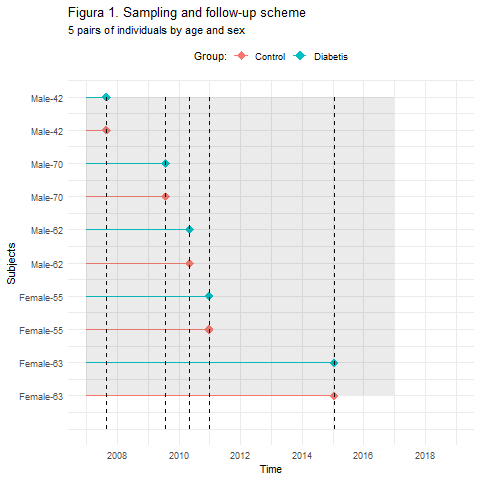
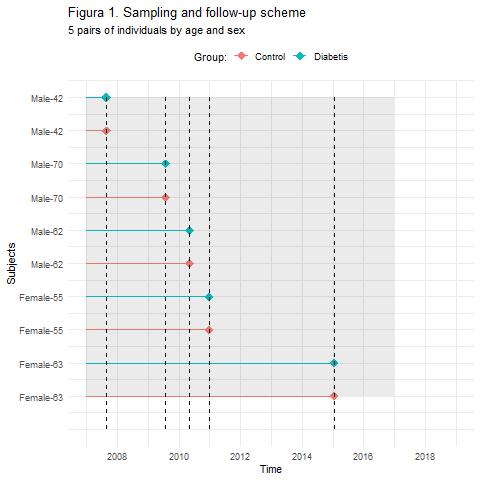
Actualització

diff --git a/diapos/presentacio_xaring.html b/diapos/presentacio_xaring.html
@@ -16,15 +16,15 @@ class: center, middle, inverse, title-slide
 ## Estudio poblacional en un área de elevada prevalencia de tuberculosis: Metodologia
 ### Violeta Antonio; Jordi Real; Josep Franch-Nadal; Antonio Moreno ; Àngels Orcau Palau; Joan A Caylà
 ### IDIAP Jordi Gol
-### 11 marzo, 2021
+### 12 marzo, 2021
 
 ---
 
 
 layout: true
-background-image: url(logoDAP_Cat.png)
+background-image: url(LogoDAP_Cat.jpg)
 background-position: 95% 0% 
-background-size: 30%
+background-size: 20%
 
 
 
@@ -119,21 +119,33 @@ Seguimiento de sujetos
 ![](../figures/Figure2_esquema.png) 
 ---
 
+## Procedimiento de muestreo (II)
+
+Método de reclutamiento y seguimiento. 
+
+**Ejemplo cambio de grupo**
+
+.pull-left[
+
+![](../figures/Figure1.2_esquema.png) 
+
+]
+
+.pull-right[
+
+![](../figures/Figure2.2_esquema.png) 
+
+]
+
+---
 class: center,middle
 
 ## Procedimiento de muestreo (III)
 
 ### Flow-Chart
 
-.pull-left[
 ![](../figures/flow_chart1.png) 
-]
 
-.pull-right[
-
-![](../figures/flow_chart2.png) 
-
-]
 
 
 
@@ -171,6 +183,7 @@ class: center,middle
 
 
 ---
+class: center,middle
 
 ## Análisis 
 
